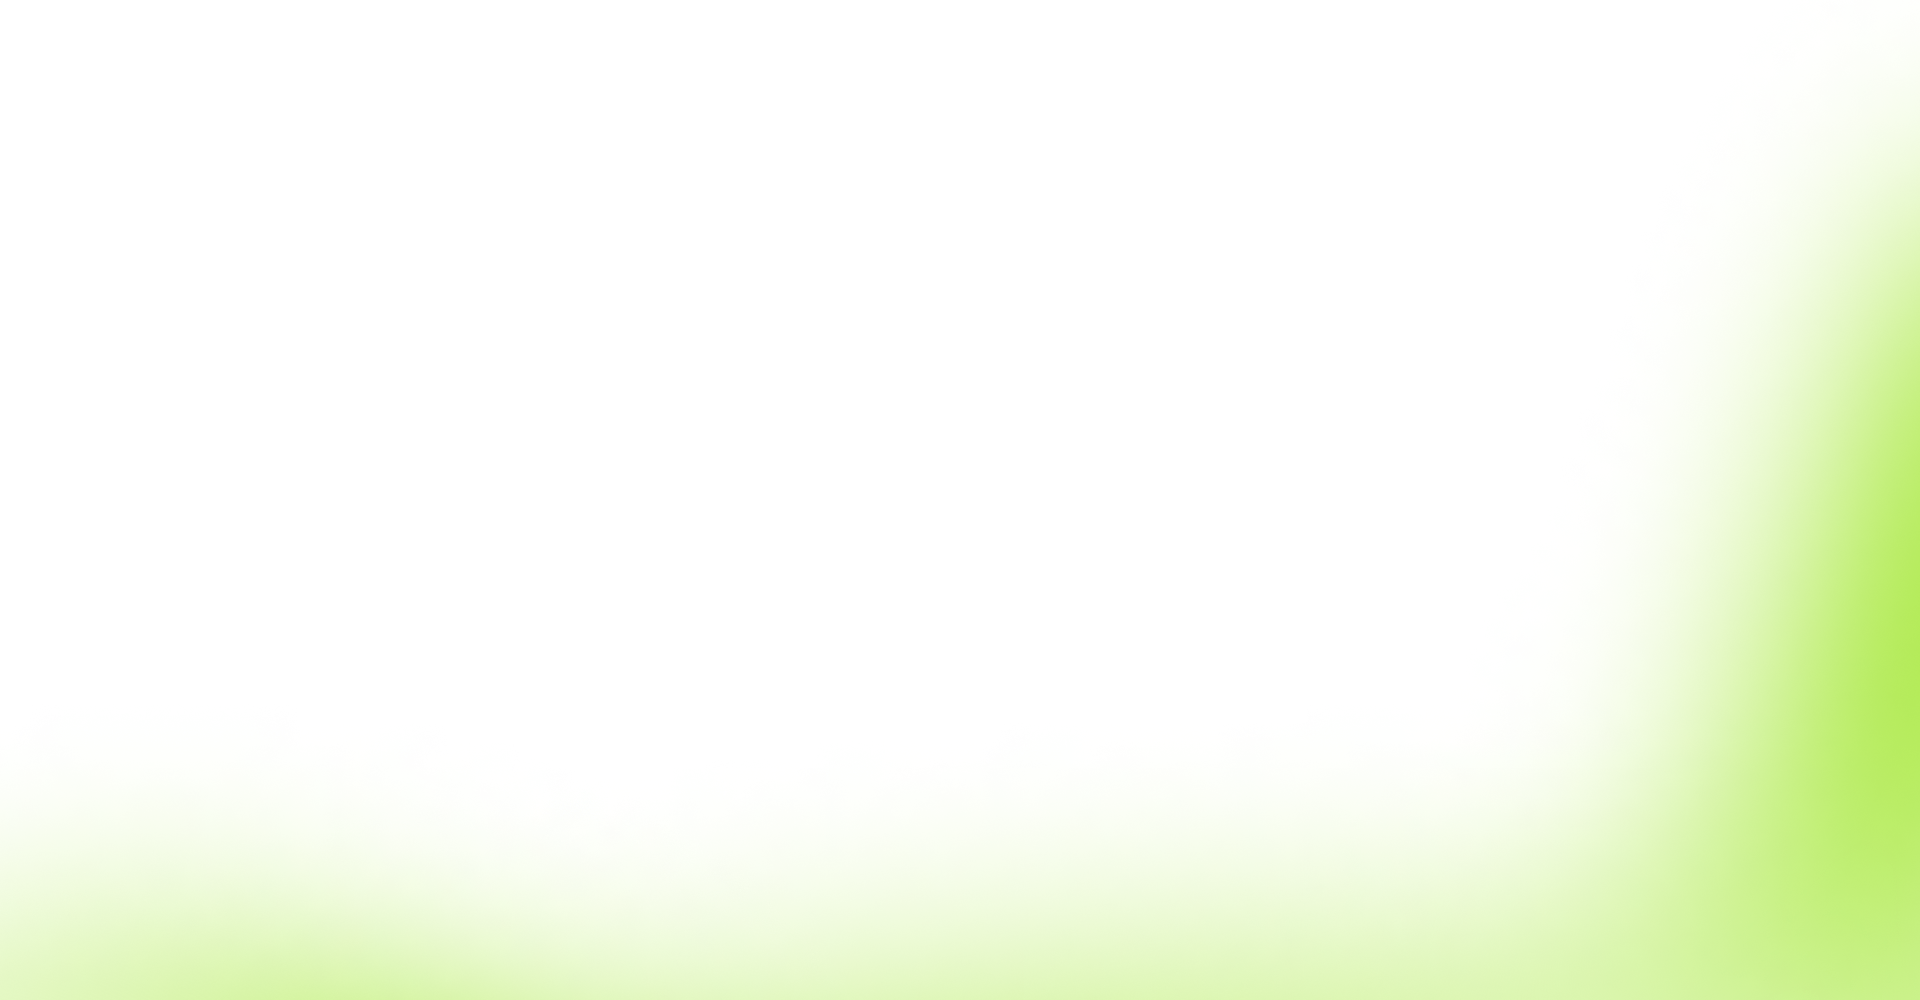
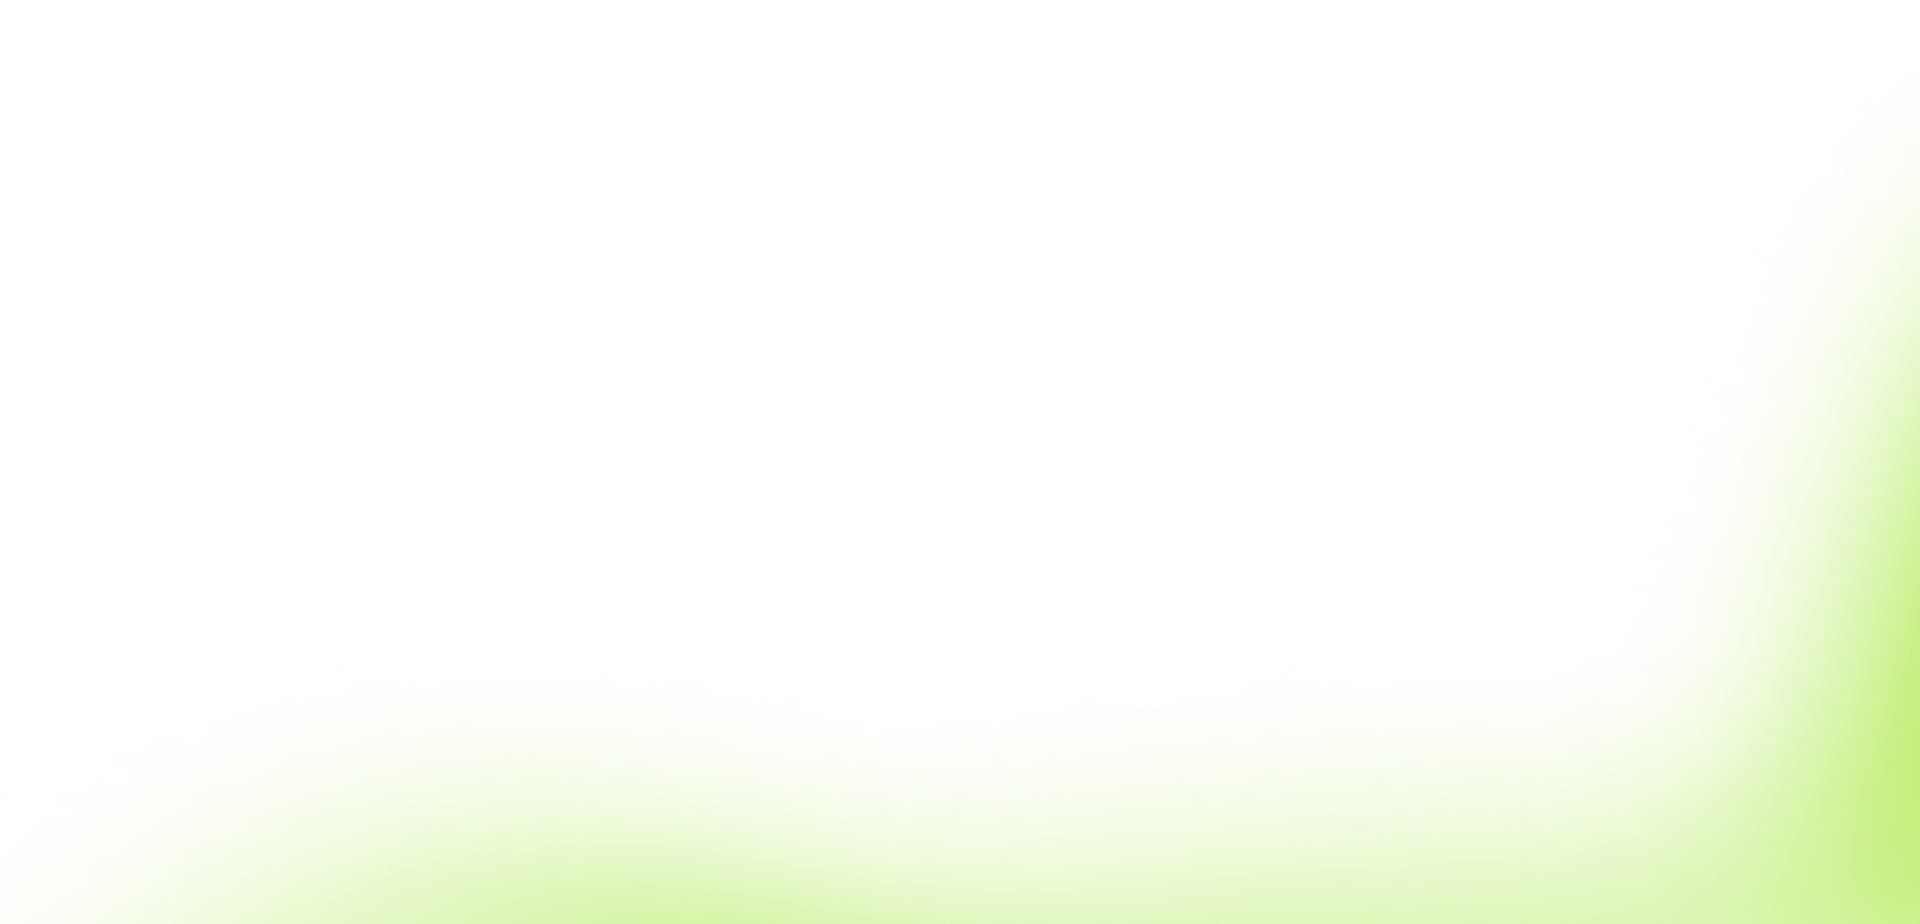
Update Hero and Projects components with new images and styles; enhance layout and responsiveness

Changed region(s): [[0.8125, 0.1515, 1.0, 0.9697], [0.0, 0.8485, 0.2188, 1.0], [0.3125, 0.9394, 0.375, 1.0]]

diff --git a/src/components/Hero/Hero.jsx b/src/components/Hero/Hero.jsx
@@ -8,15 +8,17 @@ const Hero = () => {
       className="w-full flex justify-center bg-background text-white font-poppins overflow-hidden relative "
       id="about"
     >
-      {/* <img
+      
+      <img
         src="/images/gradient.png"
         alt="Gradient"
-        className="absolute z-40 bottom-0 w-full h-auto"
+        className="absolute z-40 -bottom-14 w-full h-auto"
         draggable="false"
         onClick={(e) => e.preventDefault()}
-      /> */}
+      />
+
       <img
-        src="/images/bottom-blur.png"
+        src="/images/bottom-shadow.png"
         alt="Bottom Blur"
         className="absolute z-30 bottom-0 w-full h-auto"
         draggable="false"
@@ -24,45 +26,47 @@ const Hero = () => {
       />
 
       <img
-        className="absolute z-20 bottom-8 left-[160px] mix-blend-hard-light"
-        src="/images/toolbar.png"
+        className="absolute z-20 bottom-8 left-[220px] mix-blend-hard-light"
+        src="/images/photoshop-toolbar.png"
         alt="Container"
         draggable="false"
+        width="133px"
         onClick={(e) => e.preventDefault()}
       />
 
       <img
         src="/images/reigne.png"
         alt="Reigne"
-        className="absolute z-20 bottom-0 left-[100px] h-auto"
+        className="absolute z-20 bottom-0 left-[180px] h-auto"
         draggable="false"
+        width="732px"
         onClick={(e) => e.preventDefault()}
       />
 
       <ScrollParallax enableOnTouchDevice isAbsolutelyPositioned strength={0.5}>
         <img
-          src="/images/container.png"
+          src="/images/gradient-container-2.png"
           alt="Container"
-          className="absolute z-10 bottom-8 left-[70px]"
+          className="absolute z-10 -bottom-[208px] left-[130px]"
           draggable="false"
           onClick={(e) => e.preventDefault()}
         />
       </ScrollParallax>
 
-      <div className="w-full max-w-screen-2xl min-h-[1000px] px-4 md:px-8 overflow-hidden flex justify-center gap-8 py-8 relative z-50">
+      <div className="w-full max-w-screen-2xl min-h-[924px] px-4 md:px-8 overflow-hidden flex justify-center gap-8 py-8 relative z-50">
         <div className="w-full lg:w-1/2"></div>
 
         <div className="flex flex-col justify-center items-start w-full lg:w-1/2 p-4 md:p-0">
           {/* Heading */}
-          <p className="text-3xl sm:text-4xl text-[50px] leading-[50px] lg:leading-[70px]">
+          <p className="text-3xl sm:text-4xl text-[50px] leading-[50px] lg:leading-[50px] pt-8">
             Hello, there <br />
-            <span className="text-5xl sm:text-6xl md:text-7xl lg:text-[100px] font-bold">
+            <span className="text-5xl sm:text-6xl md:text-7xl lg:text-[80px] font-bold">
               I am <span className="text-primary">Reigne</span>
             </span>
           </p>
 
           {/* Description */}
-          <span className="text-base sm:text-lg pt-4 sm:pt-6 md:pt-8">
+          <span className=" pt-2 sm:pt-4 md:pt-6">
             A passionate web developer and designer based in the Philippines. I
             love to create beautiful and functional websites that help
             businesses grow. I am always eager to learn new technologies and
@@ -70,11 +74,11 @@ const Hero = () => {
           </span>
 
           {/* Buttons */}
-          <div className="flex flex-col sm:flex-row justify-start items-center gap-4 sm:gap-8 mt-6 sm:mt-8 md:mt-12 w-full">
-            <button className="w-full sm:w-auto bg-primary text-black px-6 sm:px-8 md:px-12 py-2 sm:py-3 rounded-full hover:bg-primary-dark hover:scale-105 transform transition duration-300 text-sm sm:text-base md:text-lg shadow-lg shadow-primary/50">
+          <div className="flex flex-col sm:flex-row justify-start items-center gap-4 sm:gap-8 mt-4 sm:mt-6 md:mt-8 w-full">
+            <button className="w-full sm:w-auto bg-primary text-black px-6 sm:px-8 md:px-12 py-2 sm:py-3 rounded-full hover:bg-primary-dark hover:scale-105 transform transition duration-300 text-sm sm:text-base shadow-lg shadow-primary/50">
               Download Resume
             </button>
-            <button className="w-full sm:w-auto flex justify-center items-center gap-2 sm:gap-4 hover:scale-105 transform transition duration-300 text-sm sm:text-base md:text-lg">
+            <button className="w-full sm:w-auto flex justify-center items-center gap-2 sm:gap-4 hover:scale-105 transform transition duration-300 text-sm sm:text-base">
               <FaLink />
               linkedin.com/ph/elijareigne-monterona
             </button>

diff --git a/src/components/Projects/Projects.jsx b/src/components/Projects/Projects.jsx
@@ -84,7 +84,33 @@ const Projects = () => {
 
             <div className="group relative w-full h-[300px] sm:h-[400px] md:h-[500px] lg:h-[640px] bg-white rounded-lg overflow-hidden border border-background/10 cursor-pointer transition-all">
               <img
+                src="/images/projects/project-9.png"
+                alt="project"
+                className="w-full h-full rounded-t-lg object-cover  lg:object-cover object-top"
+              />
+              <div className="absolute inset-0 bg-black/70 opacity-0 group-hover:opacity-100 transition-opacity duration-300 flex items-center justify-center">
+                <span className="text-white text-xl font-bold tracking-wide">
+                  View Project
+                </span>
+              </div>
+            </div>
+
+            <div className="group relative w-full h-[300px] sm:h-[400px] md:h-[500px] lg:h-[640px] bg-white rounded-lg overflow-hidden border border-background/10 cursor-pointer transition-all">
+              <img
                 src="/images/projects/project-4.jpeg"
+                alt="project"
+                className="w-full h-full rounded-t-lg object-cover  lg:object-cover object-top"
+              />
+              <div className="absolute inset-0 bg-black/70 opacity-0 group-hover:opacity-100 transition-opacity duration-300 flex items-center justify-center">
+                <span className="text-white text-xl font-bold tracking-wide">
+                  View Project
+                </span>
+              </div>
+            </div>
+
+            <div className="group relative w-full h-[300px] sm:h-[400px] md:h-[500px] lg:h-[640px] bg-white rounded-lg overflow-hidden border border-background/10 cursor-pointer transition-all">
+              <img
+                src="/images/projects/project-8.png"
                 alt="project"
                 className="w-full h-full rounded-t-lg object-cover  lg:object-cover object-top"
               />
